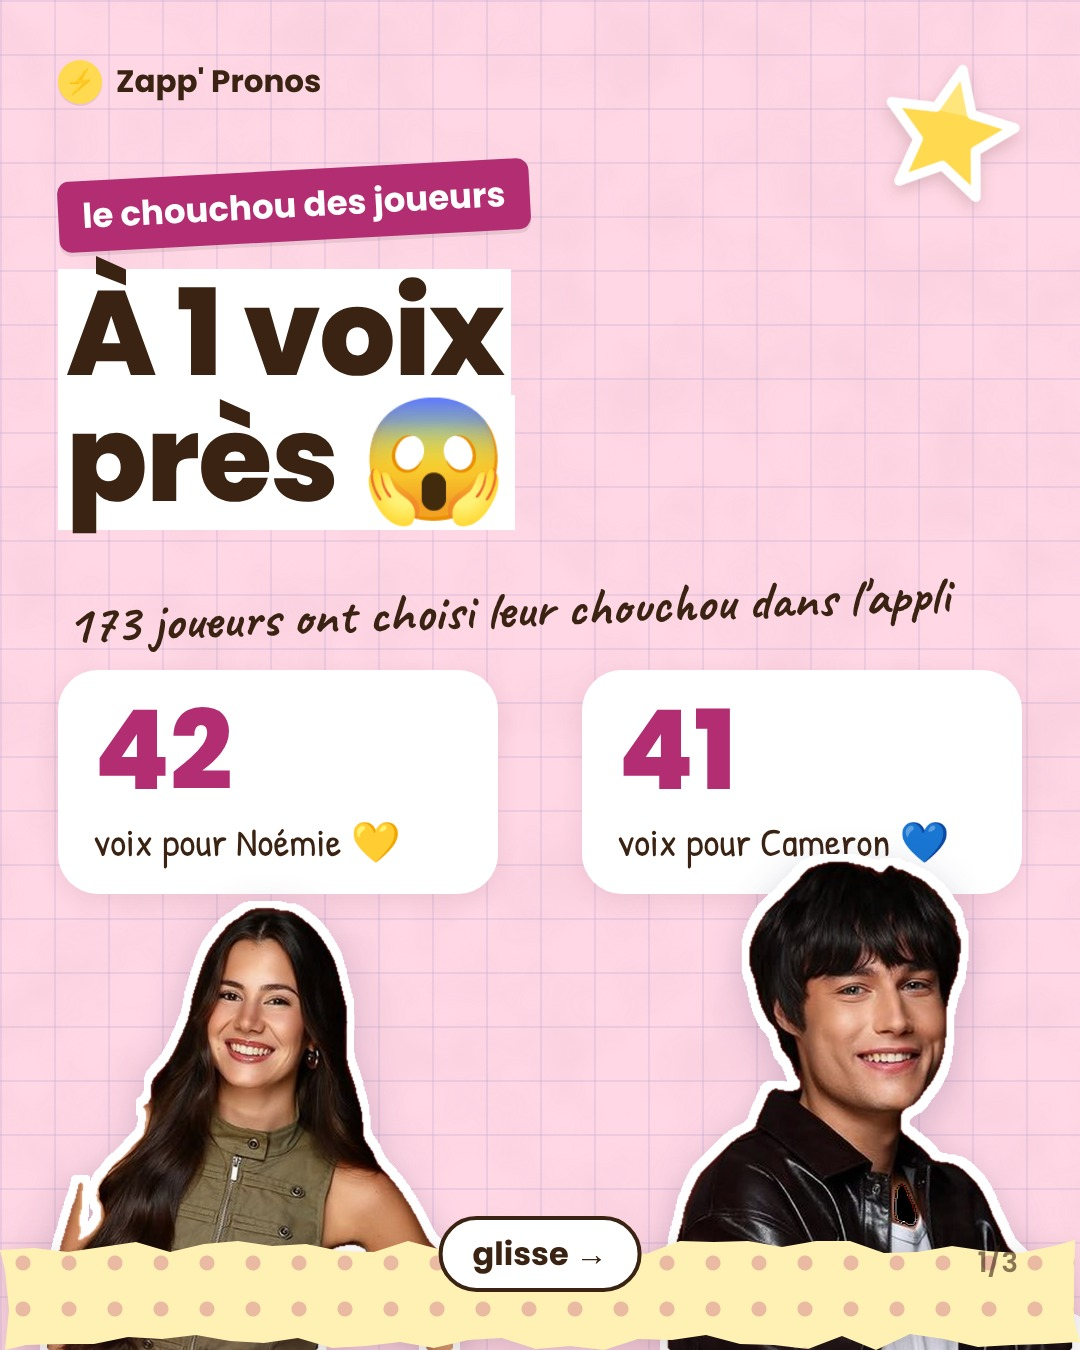
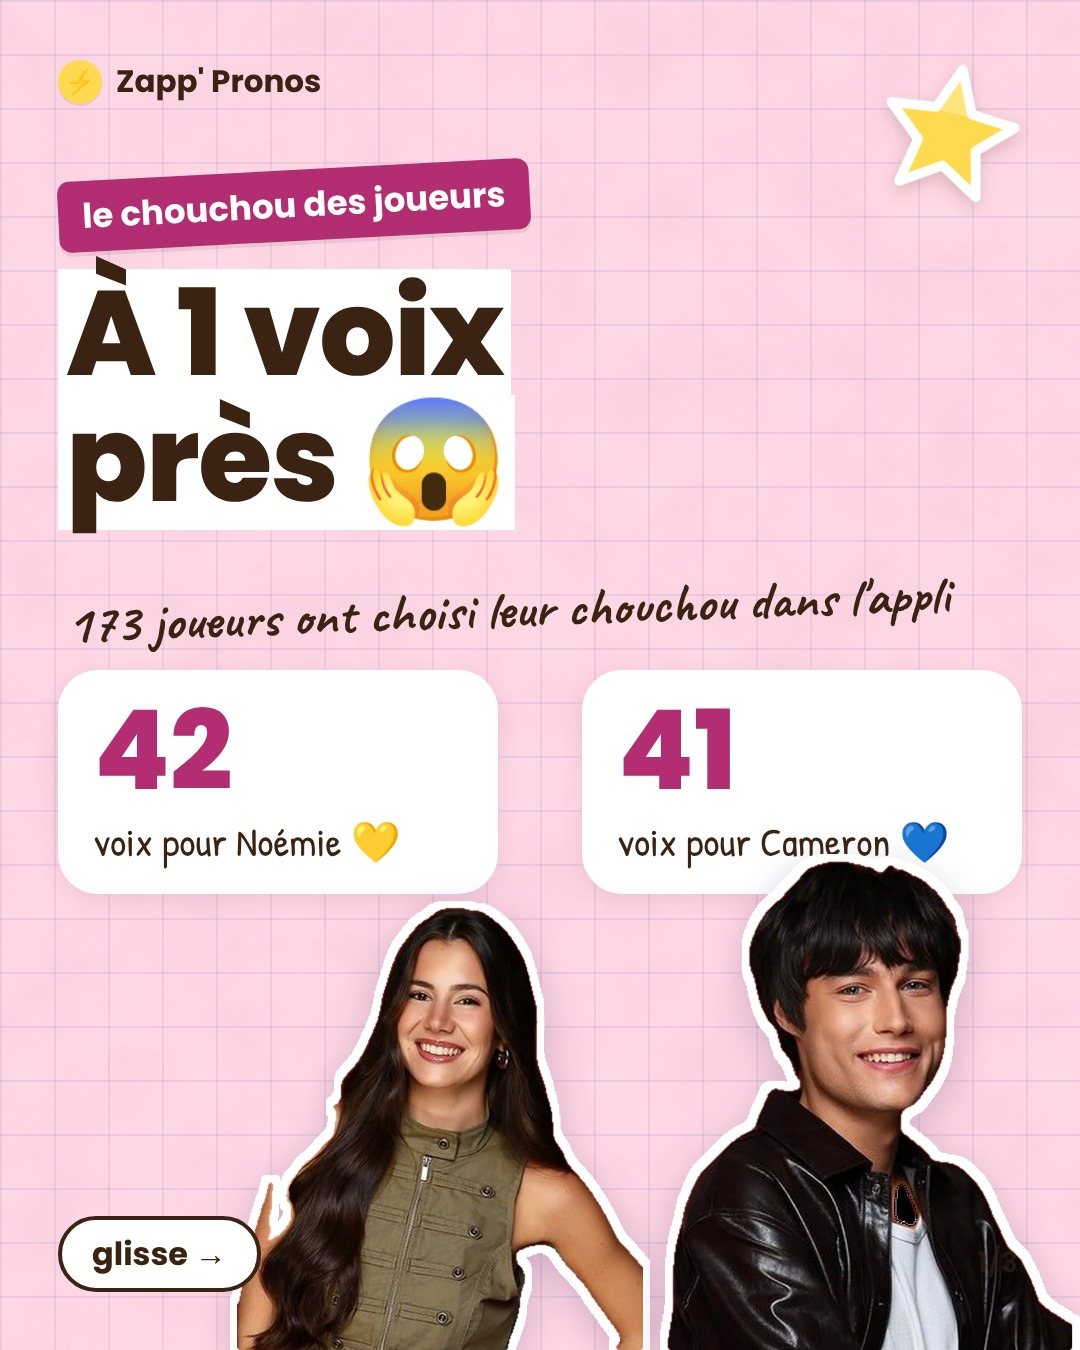
Cover chouchou : sans bande à pois, Noémie décalée derrière Cameron
Claude-Session: https://claude.ai/code/session_0156Lzyyocaj5mSMqKv9kGpd

Changed region(s): [[0.0, 0.6533, 1.0, 1.0]]

diff --git a/templates/covers-photos.html b/templates/covers-photos.html
@@ -83,7 +83,7 @@ mk('chou','grid','var(--pink)',LOGO+STAR(880,60,140,12)+`
 <div class="cv" style="position:absolute;left:66px;top:575px;font-size:54px;transform:rotate(-2deg)">173 joueurs ont choisi leur chouchou dans l'appli</div>
 <div class="w" style="position:absolute;left:58px;top:670px;width:440px;background:#fff;border-radius:40px;padding:26px 36px;box-shadow:0 8px 22px rgba(120,60,90,.10)"><div style="font-weight:800;font-size:110px;line-height:1;color:var(--mag)">42</div><div style="font-family:H;font-size:40px;margin-top:8px">voix pour Noémie 💛</div></div>
 <div class="w" style="position:absolute;right:58px;top:670px;width:440px;background:#fff;border-radius:40px;padding:26px 36px;box-shadow:0 8px 22px rgba(120,60,90,.10)"><div style="font-weight:800;font-size:110px;line-height:1;color:var(--mag)">41</div><div style="font-family:H;font-size:40px;margin-top:8px">voix pour Cameron 💙</div></div>`
-+PB(C('noemie'),'left',40,420)+PB(C('cameron'),'right',0,420)+`<div class="tw" style="left:0;top:1240px;width:1080px;height:110px"><div class="dots" style="clip-path:${tornPoly(1080,110,13)};background-color:#FFF1B4"></div></div>`+SWC+FOOT(1,3));
++PB(C('noemie'),'left',230,420)+PB(C('cameron'),'right',0,420)+SW+FOOT(1,3));
 
 /* 4. Club des 11 (ven 6/11) — Antoine, Maud, Ydriss = les 3 vrais nommés du prime 4 (vérifié) */
 const CLUB=(id,line)=>mk(id,'grid','var(--yellow)',LOGO+STAR(880,60,140,-10)+`
